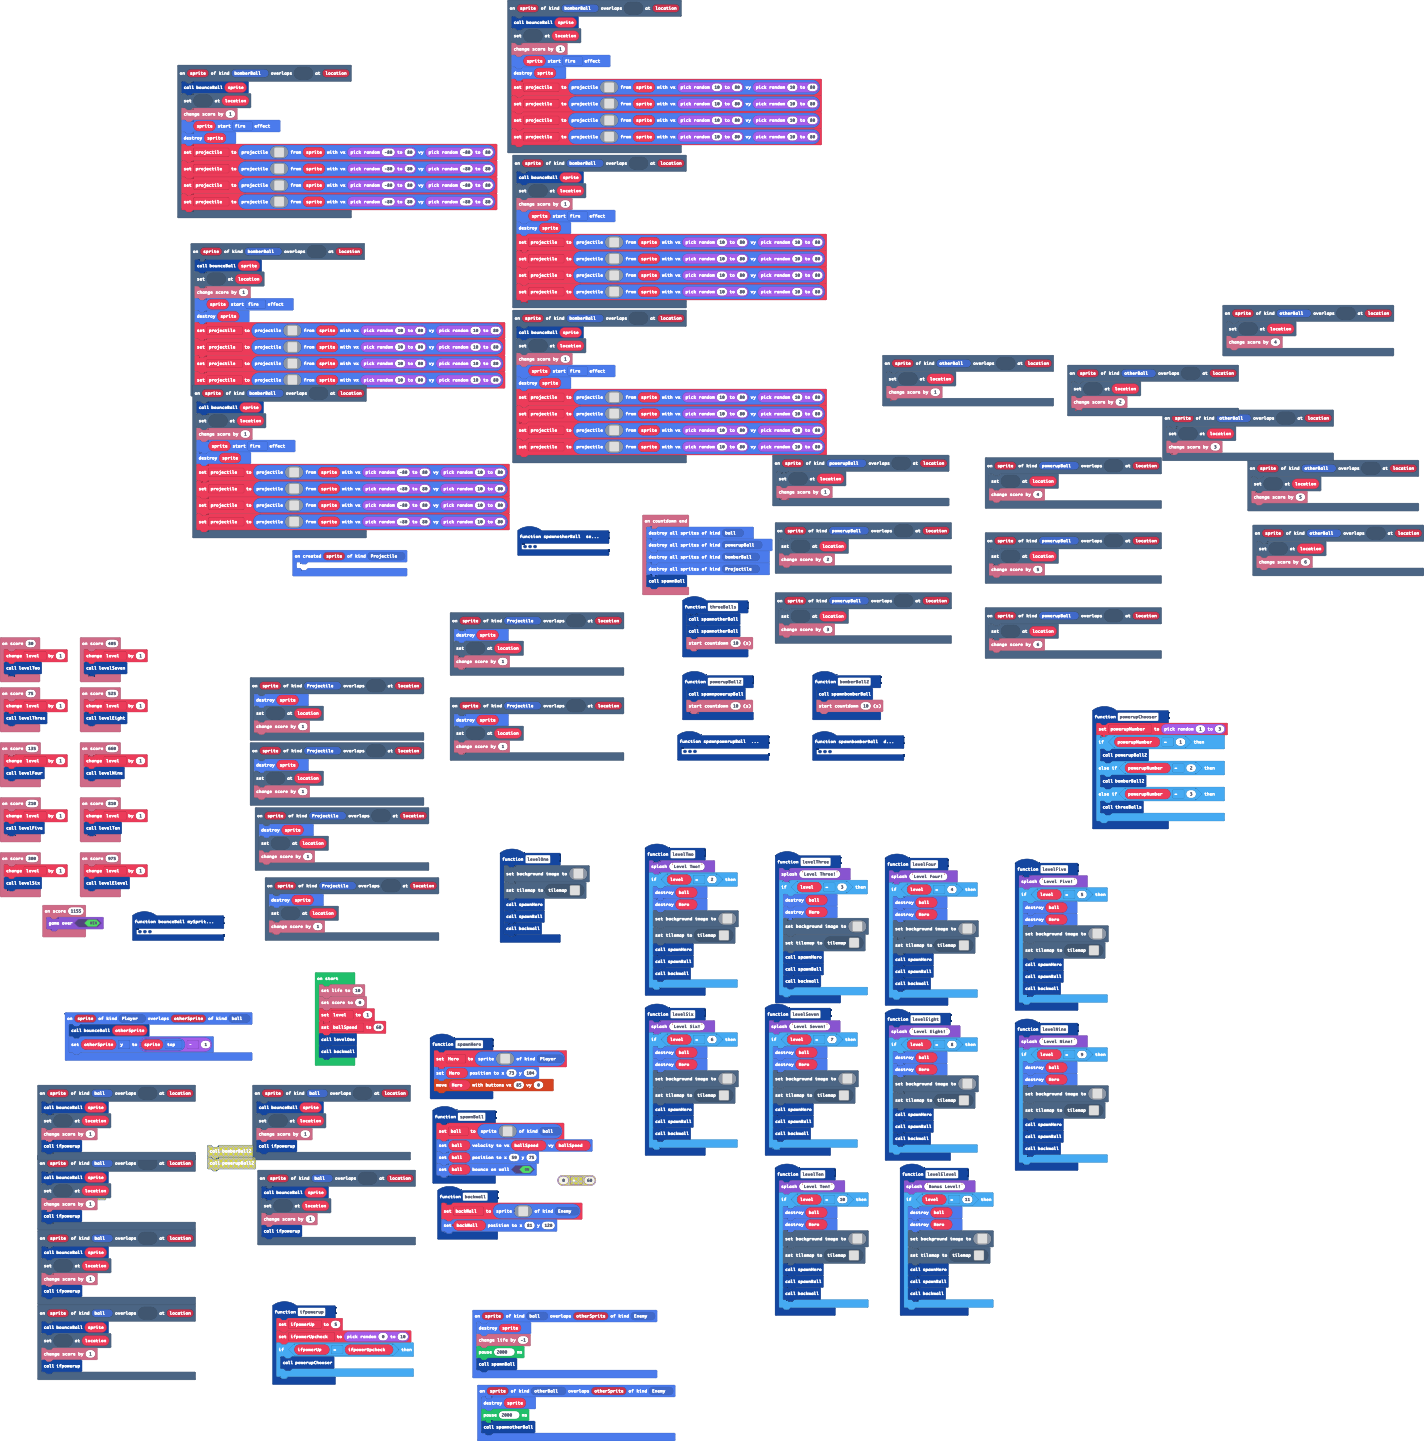
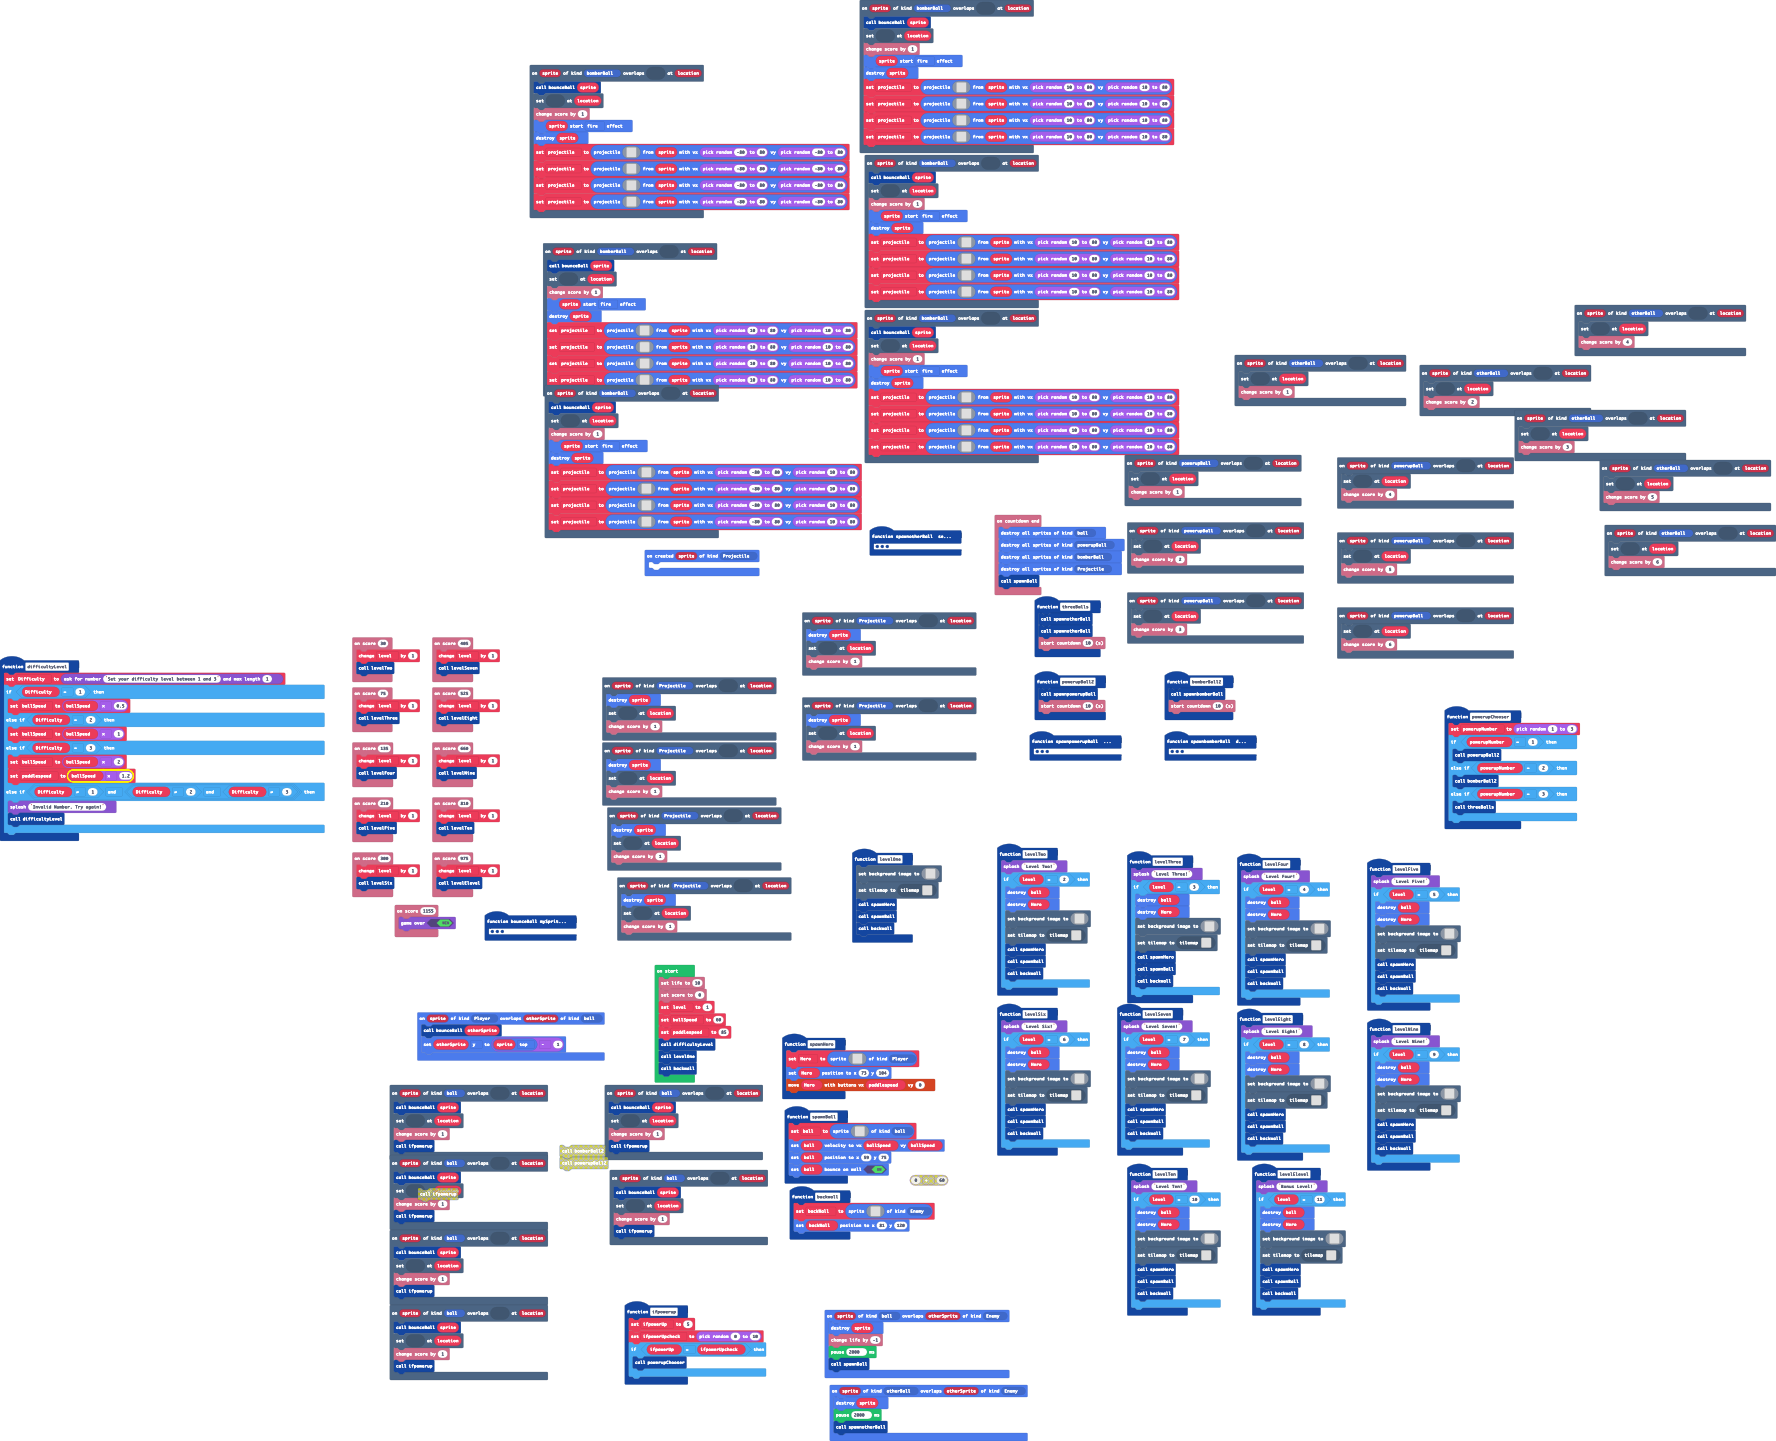
Update main.blocks, main.ts

diff --git a/main.ts b/main.ts
@@ -1249,7 +1249,7 @@ function spawnHero () {
         f f f f f f f f f f f f f f f f f f f f f f f f f f f f f f f f f f f 
         `, SpriteKind.Player)
     Hero.setPosition(73, 104)
-    controller.moveSprite(Hero, 85, 0)
+    controller.moveSprite(Hero, paddlespeed, 0)
 }
 function levelFour () {
     game.splash("Level Four!")
@@ -1718,6 +1718,20 @@ sprites.onOverlap(SpriteKind.Player, SpriteKind.ball, function (sprite, otherSpr
     bounceBall(otherSprite)
     otherSprite.y = sprite.top - 1
 })
+function difficultyLevel () {
+    Difficulty = game.askForNumber("Set your difficulty level between 1 and 3", 1)
+    if (Difficulty == 1) {
+        ballSpeed = ballSpeed * 0.5
+    } else if (Difficulty == 2) {
+        ballSpeed = ballSpeed * 1
+    } else if (Difficulty == 3) {
+        ballSpeed = ballSpeed * 2
+        paddlespeed = ballSpeed * 1.2
+    } else if (Difficulty != 1 && (Difficulty != 2 && Difficulty != 3)) {
+        game.splash("Invalid Number. Try again!")
+        difficultyLevel()
+    }
+}
 function levelTwo () {
     game.splash("Level Two!")
     if (level == 2) {
@@ -1859,6 +1873,7 @@ function backwall () {
     backWall.setPosition(81, 120)
 }
 let backWall: Sprite = null
+let Difficulty = 0
 let bomberball: Sprite = null
 let powerupNumber = 0
 let projectile: Sprite = null
@@ -1870,11 +1885,14 @@ let ballspedY = 0
 let ballspedX = 0
 let Hero: Sprite = null
 let ball: Sprite = null
+let paddlespeed = 0
 let ballSpeed = 0
 let level = 0
 info.setLife(10)
 info.setScore(0)
 level = 1
 ballSpeed = 60
+paddlespeed = 85
+difficultyLevel()
 levelOne()
 backwall()
